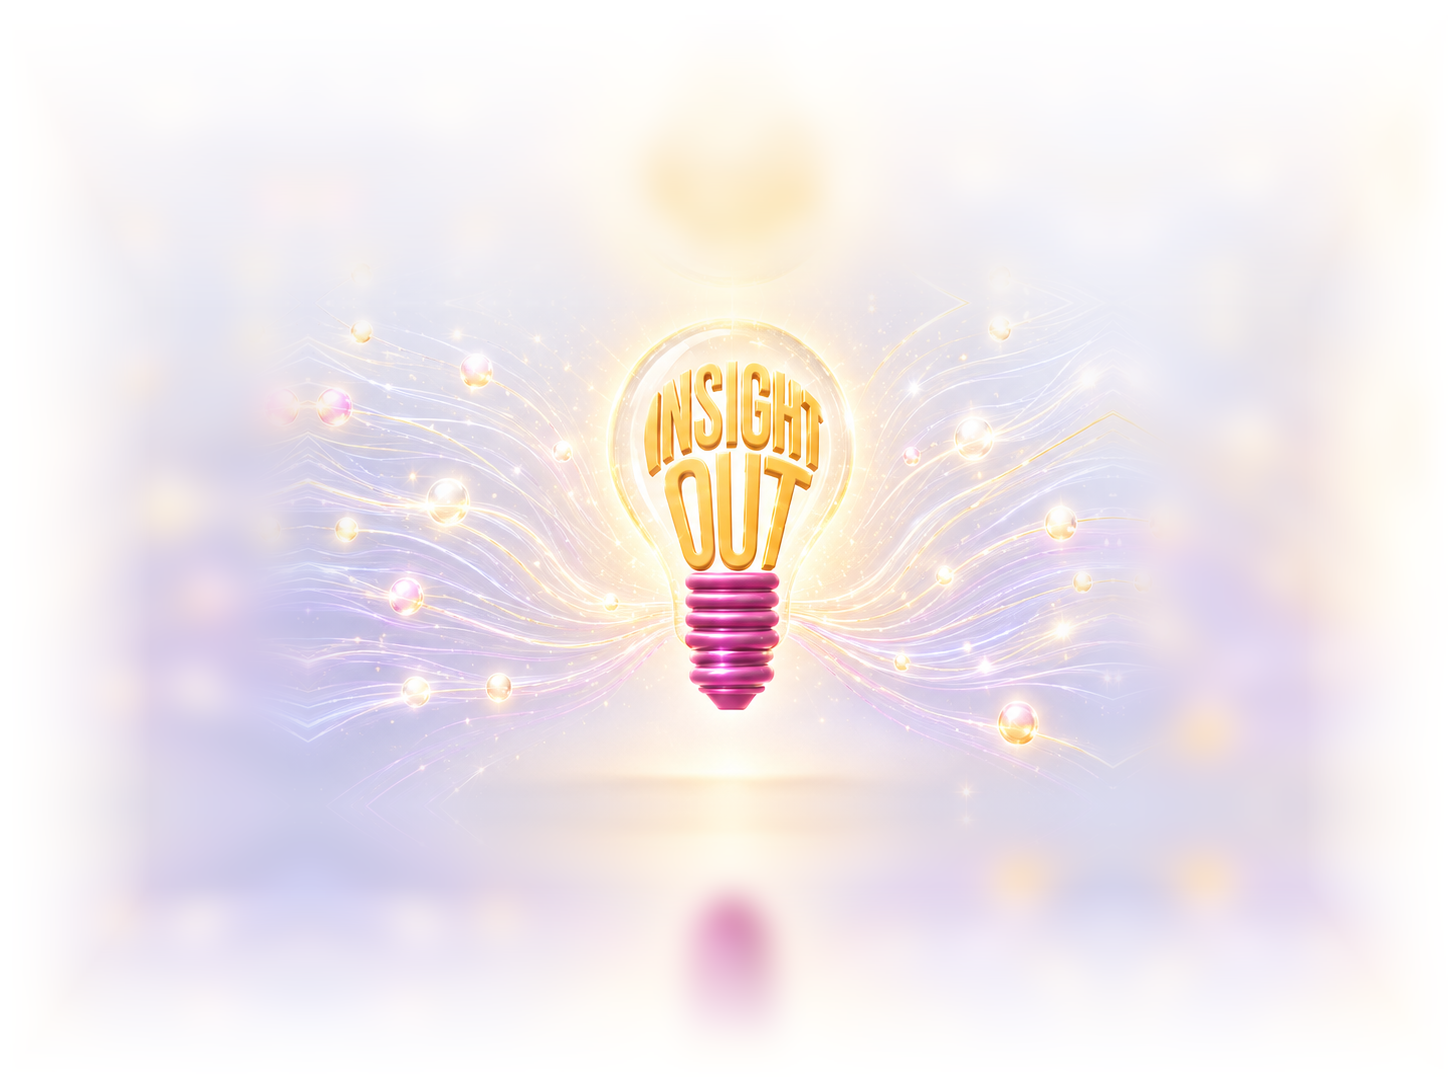
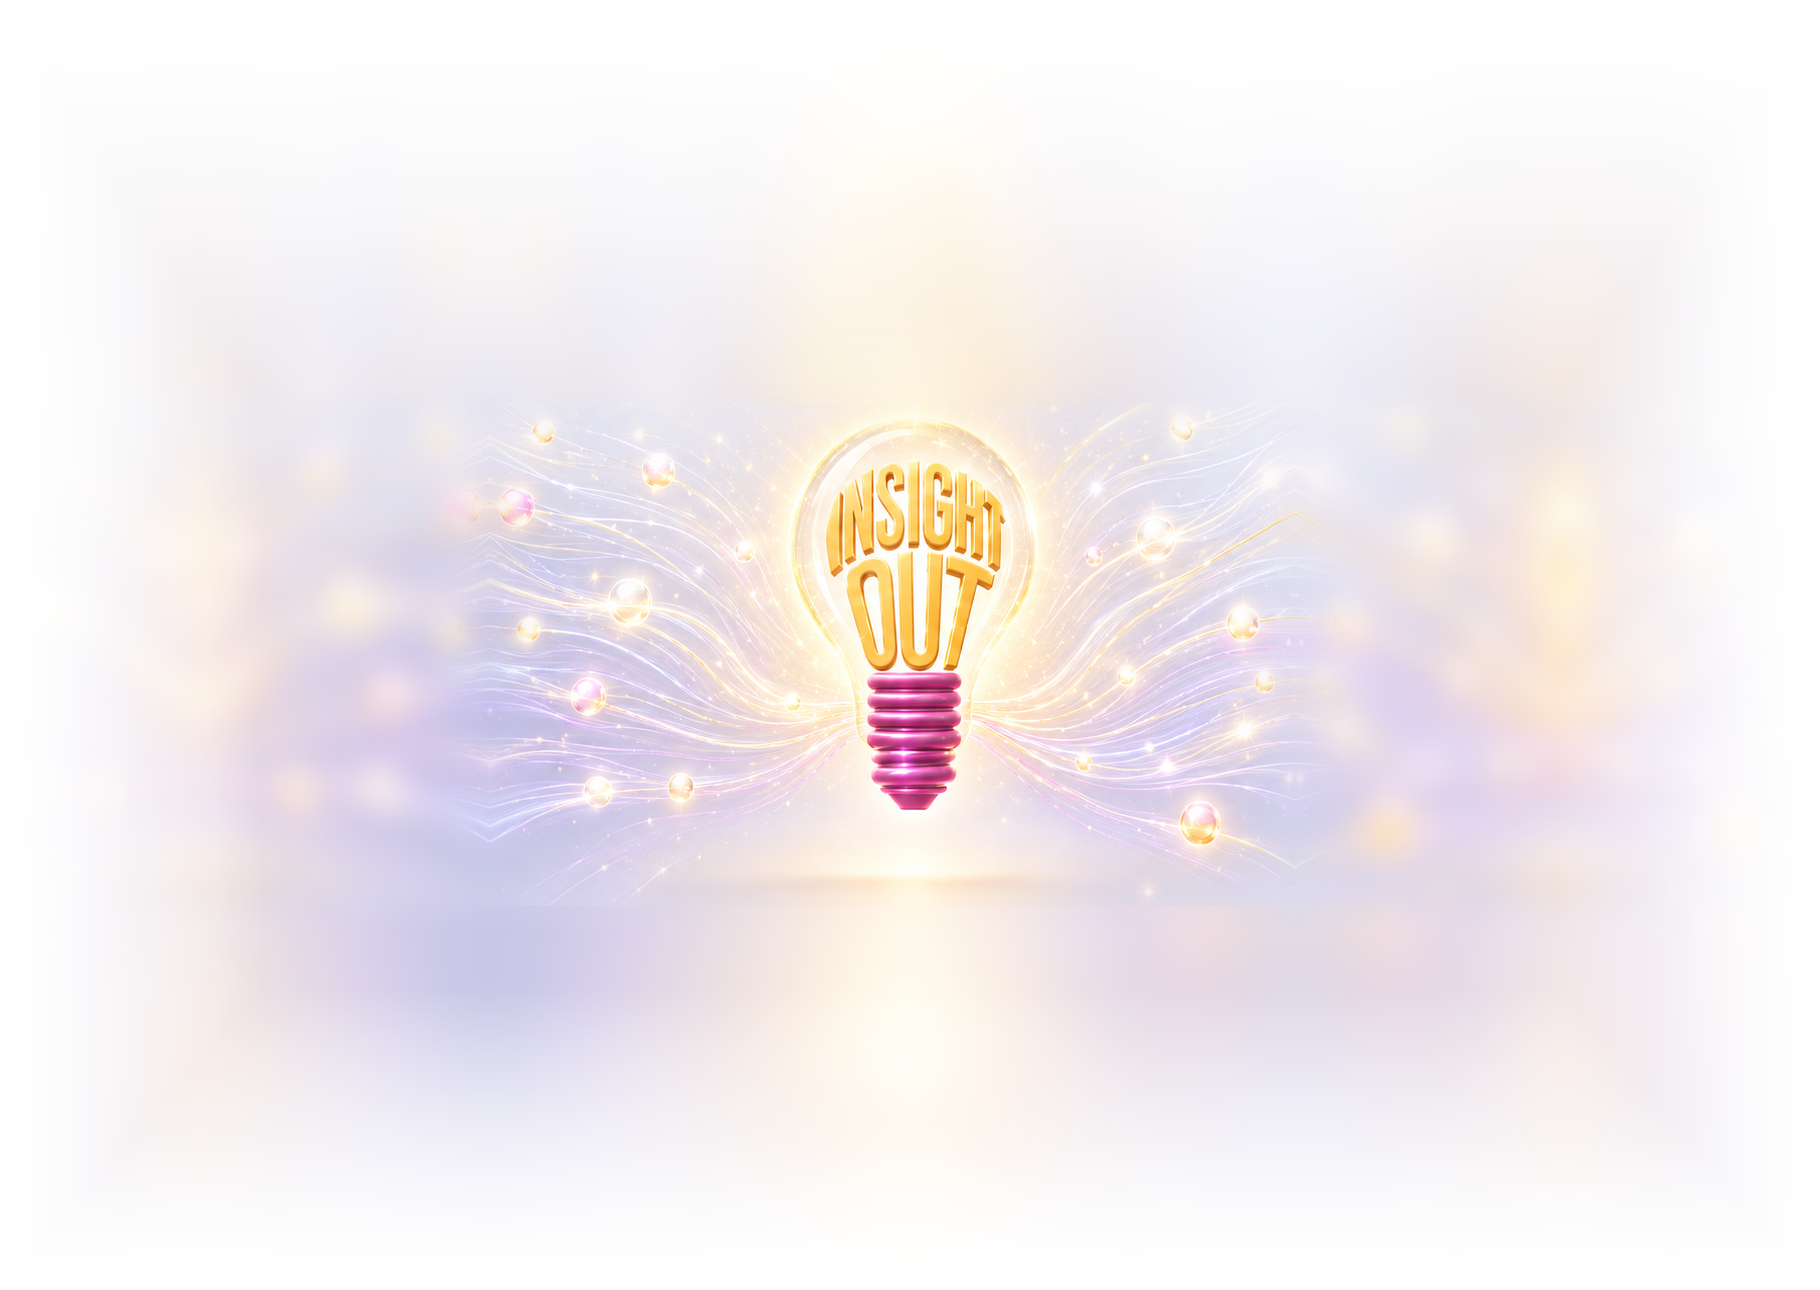
fix: 로그인 UI 프리뷰 1:1 정합 + 세로 스크롤 0 (지시서 262-2)

diff --git a/src/app/login/page.tsx b/src/app/login/page.tsx
@@ -15,53 +15,47 @@ export const metadata: Metadata = {
  */
 export default function LoginPage() {
   return (
-    <main className="io-login relative flex min-h-screen w-full flex-col overflow-hidden px-4 sm:px-8 lg:px-12 xl:px-16">
-      {/* ── 헤드라인 — 화면 상단 고정 ── */}
-      <header className="hero-copy relative z-10 mx-auto w-full max-w-[1500px] pt-8 text-center lg:pt-2 lg:text-left">
-        <h1
-          className="font-extrabold tracking-[-0.045em] text-[#0f244d]"
-          style={{ fontSize: 'clamp(34px, 3.6vw, 52px)', lineHeight: 1.08 }}
-        >
-          흩어진 인텔리전스를
-          <br /> 하나의 흐름으로,
-        </h1>
-        <p className="mt-3 text-lg font-medium italic tracking-wide text-slate-400 sm:text-xl">
-          Intelligence in. Insight out.
-        </p>
-        <p className="mt-5 leading-relaxed text-slate-500 sm:text-[17px]">
-          뉴스, 리포트, 영상, 데이터를 모아
-          <br className="hidden sm:block" /> 실행 가능한 인사이트로 전환합니다.
-        </p>
-      </header>
-
-      {/* ── 전구 + 로그인 카드 — 남은 공간에서 세로 중앙 ── */}
-      <div className="flex flex-1 items-center pb-6 lg:pb-2">
-        <div className="grid w-full max-w-[1500px] items-center gap-10 lg:grid-cols-[minmax(0,1.55fr)_minmax(0,460px)] lg:gap-16 mx-auto">
-          {/* 전구 히어로 — 크게, 중심적으로. 262: 256의 폭 퍼센트(2xl 88%)만으로는
-              화면이 더 넓어질수록(1920·2560 등) 씬 폭이 절대값으로 커져 aspect 고정 탓에
-              높이도 같이 커져 세로로 다시 넘친다. → 폭을 "컬럼 대비 %"와 "세로 높이 기준
-              환산값(87vh ≈ 65vh 높이를 aspect[1456/1087]로 폭 환산)" 중 작은 쪽으로 제한해
-              화면 폭이 아무리 넓어져도 씬 높이가 절대 65vh 를 넘지 않게 한다(aspect 고정이라
-              폭도 함께 축소). 좁은 뷰포트(1280~1536)에서는 %가, 넓은 뷰포트(1920·2560)에서는
-              vh 환산값이 상한으로 작동 — 5개 뷰포트(1280×800·1440×900·1536×864·1920×1080·
-              2560×1440) 세로 스크롤 0 실측 튜닝(카드 높이 560 은 250 기준 유지). */}
-          <section className="relative min-w-0">
-            <div className="mx-auto w-full max-w-[840px] lg:-ml-[6%] lg:w-[min(107%,87vh)] lg:max-w-none">
-              <BulbScene />
-            </div>
-          </section>
-
-          {/* ── 로그인 카드 ── */}
-          <section className="w-full max-w-[460px] justify-self-center lg:justify-self-end">
-            <Suspense
-              fallback={
-                <div className="h-[560px] w-full rounded-[30px] border border-slate-200/70 bg-white shadow-[0_40px_90px_-30px_rgba(24,39,75,0.30)]" />
-              }
+    <main className="io-login relative flex min-h-screen w-full items-center justify-center overflow-hidden px-4 py-8 sm:px-8 lg:h-screen lg:px-16 lg:py-10">
+      <div className="grid w-full max-w-[1500px] items-center gap-10 lg:grid-cols-[minmax(0,1.55fr)_minmax(0,460px)] lg:gap-16">
+        {/* ── 좌측 히어로: 카피(좌상단) + 전구 씬 ── */}
+        <section className="relative flex min-w-0 flex-col items-center text-center lg:h-[calc(100vh-5rem)] lg:items-start lg:text-left">
+          <div className="hero-copy relative z-10 max-w-2xl px-1">
+            <h1
+              className="font-extrabold tracking-[-0.045em] text-[#0f244d]"
+              style={{ fontSize: 'clamp(34px, 3.6vw, 52px)', lineHeight: 1.08 }}
             >
-              <LoginCard />
-            </Suspense>
-          </section>
-        </div>
+              흩어진 인텔리전스를
+              <br /> 하나의 흐름으로,
+            </h1>
+            <p className="mt-3 text-lg font-medium italic tracking-wide text-slate-400 sm:text-xl">
+              Intelligence in. Insight out.
+            </p>
+            <p className="mt-5 leading-relaxed text-slate-500 sm:text-[17px]">
+              뉴스, 리포트, 영상, 데이터를 모아
+              <br className="hidden sm:block" /> 실행 가능한 인사이트로 전환합니다.
+            </p>
+          </div>
+
+          {/* 전구 씬 — absolute 오버플로 레이어(레이아웃 높이 미기여 → 세로 스크롤 0).
+              main lg:h-screen + overflow-hidden 이 화면 밖을 클립하고 asset feather 가
+              가장자리를 자연 소멸시킨다. 폭 113vw 는 asset 1820 기준 — 전구 렌더 크기가
+              이전 확정 컴포지션(153% × 컬럼, asset 1456)과 동일해지는 값. 카피(z-10)가
+              위 레이어라 desc 텍스트와 살짝 겹쳐도 가독성 유지(David 확정). */}
+          <div className="mx-auto mt-4 w-full max-w-[840px] lg:absolute lg:top-[54%] lg:left-[49%] lg:mt-0 lg:w-[113vw] lg:max-w-none lg:-translate-x-1/2 lg:-translate-y-1/2">
+            <BulbScene />
+          </div>
+        </section>
+
+        {/* ── 로그인 카드 ── */}
+        <section className="w-full max-w-[460px] justify-self-center lg:justify-self-end">
+          <Suspense
+            fallback={
+              <div className="h-[560px] w-full rounded-[30px] border border-slate-200/70 bg-white shadow-[0_40px_90px_-30px_rgba(24,39,75,0.30)]" />
+            }
+          >
+            <LoginCard />
+          </Suspense>
+        </section>
       </div>
     </main>
   )

diff --git a/src/components/login/BulbScene.tsx b/src/components/login/BulbScene.tsx
@@ -7,9 +7,9 @@ import Image from 'next/image'
  * 구성(목업과 동일):
  * - 전구 asset: 목업 베이스 이미지에서 전구 주변(광류·글로우 포함)을 분리한
  *   `/brand/login-bulb-scene.png` (원본 좌표 x40-845 / y455-958 크롭 후 미러+블러로
- *   좌308·우343·상303·하281 확장, 가장자리 feather → 1456×1087. 전구·구슬 픽셀
+ *   좌490·우525·상403·하384 확장, 가장자리 feather → 1820×1290. 전구·구슬 픽셀
  *   크기는 원본 그대로, 주변 필드만 확장).
- * - 오버레이 SVG: viewBox 를 확장 크롭과 동일한 "-268 152 1456 1087" 으로 잡아
+ * - 오버레이 SVG: viewBox 를 확장 크롭과 동일한 "-450 52 1820 1290" 으로 잡아
  *   목업의 path·orb·comet·twinkle 좌표를 변환 없이 그대로 사용한다.
  *   목업처럼 mix-blend-mode:screen 으로 이미지 위에 얹는다.
  * - ① bulb aura(glowPulse) ② flow guide line 11개(gold/pink)
@@ -22,14 +22,14 @@ import Image from 'next/image'
  */
 export function BulbScene() {
   return (
-    <div className="io-anim-layer relative mx-auto aspect-[1456/1087] w-full">
+    <div className="io-anim-layer relative mx-auto aspect-[1820/1290] w-full">
       {/* 전구 asset — 목업 이미지의 전구 영역 분리본 */}
       <Image
         src="/brand/login-bulb-scene.png"
         alt=""
         aria-hidden="true"
-        width={1456}
-        height={1087}
+        width={1820}
+        height={1290}
         priority
         className="pointer-events-none absolute inset-0 z-0 h-full w-full select-none object-cover"
       />
@@ -37,7 +37,7 @@ export function BulbScene() {
       {/* 목업 v3 오버레이 — 원본 좌표 그대로, screen 블렌드 */}
       <svg
         className="absolute inset-0 z-10 h-full w-full overflow-visible mix-blend-screen"
-        viewBox="-268 152 1456 1087"
+        viewBox="-450 52 1820 1290"
         fill="none"
         aria-hidden="true"
         focusable="false"
